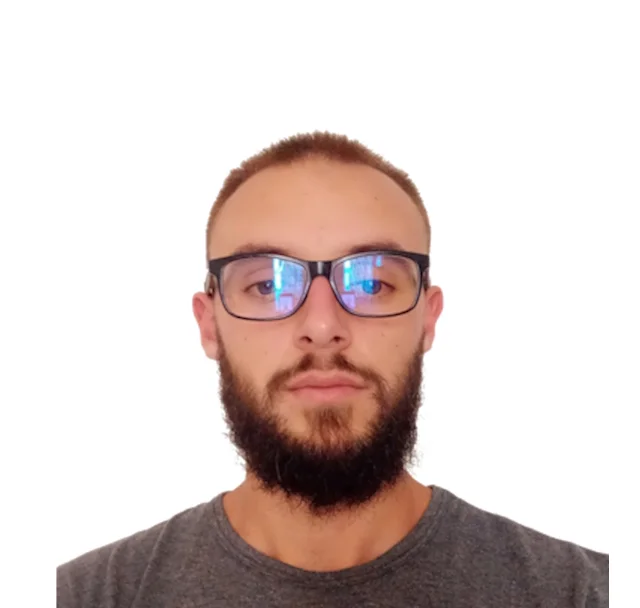
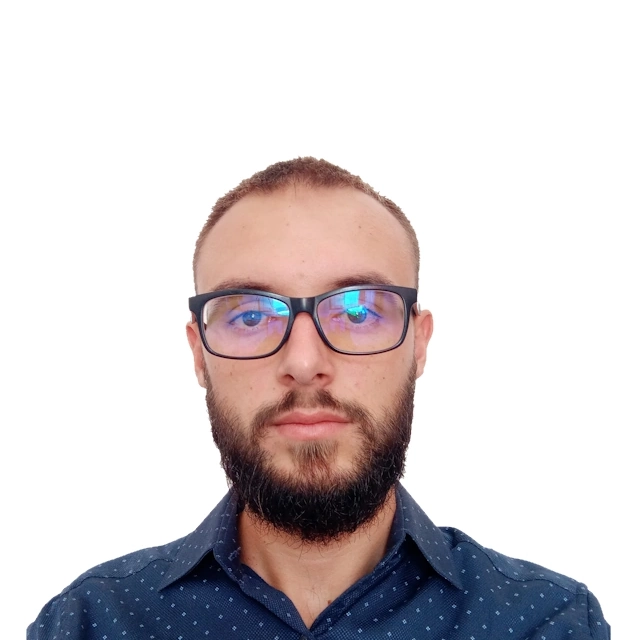
Elhamdulilah mbaroi i gjith projekti mbeti vetëm për build

Changed region(s): [[0.0312, 0.2188, 0.9688, 1.0]]

diff --git a/src/layout/AboutMe.jsx b/src/layout/AboutMe.jsx
@@ -1,5 +1,6 @@
 import { motion } from "framer-motion";
 import { vrPhHeroText, vrAboutCard } from "../framerMotion/variants";
+import FooterImg from "../assets/profile/aboutImg.webp";
 
 const AboutMe = () => {
   const vrTextHead = vrPhHeroText();
@@ -23,15 +24,25 @@ const AboutMe = () => {
           className="about-us__card__left-cont"
           aria-label="About us card image and btn container"
         >
-          {/* <img src="" alt="Profile image" /> */}
-          <div className="about-us__card__left-cont__img-perkohshem"></div>
+          <div
+            aria-label="About us Img Container"
+            className="about-us__card__left-cont__img-container"
+          >
+            <img src={FooterImg} alt="Profile image" />
+          </div>
           <button>
             <a href="mailto:floriandollani15@gmail.com">Contact</a>
           </button>
         </motion.div>
         <motion.p variants={vrTextHead}>
           Hello! I’m a _front end web developer_ ,But also i can do full stack
-          website/webApp using Firebase for backend.I’m a <span>certified</span>{" "}
+          website/webApp using Firebase for backend.I’m a{" "}
+          <a
+            href="https://drive.google.com/file/d/1-51H19ETtsdrmmoQhI5l-DeUIjBGB1ww/view?usp=drive_link"
+            target="_blank"
+          >
+            certified
+          </a>{" "}
           web developer with 1 year of hard work trying to master web
           development.
           <br />

diff --git a/src/layout/MySkills.jsx b/src/layout/MySkills.jsx
@@ -33,9 +33,9 @@ const MySkills = () => {
         className="my-skills__skills-cont --core-tech"
         aria-label="Core tech skill's icon's container"
       >
-        <motion.h3 variants={vrMySkillsLabel} initial="init" whileInView="anim">
+        <motion.h2 variants={vrMySkillsLabel} initial="init" whileInView="anim">
           Core Tech
-        </motion.h3>
+        </motion.h2>
         {[
           { src: HtmlIcn, alt: "Html" },
           { src: CssIcn, alt: "Css" },
@@ -67,9 +67,9 @@ const MySkills = () => {
         className="my-skills__skills-cont --library"
         aria-label="Library skill's icon's container"
       >
-        <motion.h3 variants={vrMySkillsLabel} initial="init" whileInView="anim">
+        <motion.h2 variants={vrMySkillsLabel} initial="init" whileInView="anim">
           Library
-        </motion.h3>
+        </motion.h2>
         {[
           { src: FirebaseIcn, alt: "Firebase" },
           { src: ReactIcn, alt: "React" },
@@ -100,9 +100,9 @@ const MySkills = () => {
         className="my-skills__skills-cont --others"
         aria-label="Other skill's icon's container"
       >
-        <motion.h3 variants={vrMySkillsLabel} initial="init" whileInView="anim">
+        <motion.h2 variants={vrMySkillsLabel} initial="init" whileInView="anim">
           Other's
-        </motion.h3>
+        </motion.h2>
         {[
           { src: SassIcn, alt: "Sass" },
           { src: TsIcn, alt: "Typescript" },

diff --git a/src/components/sections/servicesSec/Cards.jsx b/src/components/sections/servicesSec/Cards.jsx
@@ -27,7 +27,7 @@ const Cards = () => {
           className="services__cardCont__card__right"
           aria-label="Card text and btn group"
         >
-          <h3>Front End Web Development</h3>
+          <h2>Front End Web Development</h2>
           <p>
             Transform design into a real website.Also if you don’t have a pre
             made design we can made it.
@@ -52,7 +52,7 @@ const Cards = () => {
           className="services__cardCont__card__right"
           aria-label="Card text and btn group"
         >
-          <h3>Full Stack Web Development</h3>
+          <h2>Full Stack Web Development</h2>
           <p>
             Do you want a powerful website?This service has both front-end and
             back-end with Firebase.
@@ -77,7 +77,7 @@ const Cards = () => {
           className="services__cardCont__card__right"
           aria-label="Card text and btn group"
         >
-          <h3>Web Udate or Error Fixing Service</h3>
+          <h2>Web Udate or Error Fixing Service</h2>
           <p>
             Do you want a new update on your web?
             {windowWidth < 1200

diff --git a/src/styles/screens/sm/_aboutMe.scss b/src/styles/screens/sm/_aboutMe.scss
@@ -26,7 +26,7 @@
       width: 85%;
       @include mix.flex(column, flex-start, center);
       // ky posht InshaaAllah eshte sa per divin e perkohshem sa te bej foton
-      .about-us__card__left-cont__img-perkohshem {
+      .about-us__card__left-cont__img-container {
         width: 70%;
         aspect-ratio: 1;
         font-size: var.$size5-max599;
@@ -34,6 +34,11 @@
         border: 0.5em solid var.$col4;
         border-radius: 50%;
         margin-top: 2.5em;
+        overflow: hidden;
+        @include mix.flex(row, center, flex-start);
+        img {
+          width: 100%;
+        }
       }
       button {
         @include btn.buttonMob(
@@ -51,7 +56,7 @@
     p {
       @include mix.font(var.$martel, var.$size3-max599, white, 600, 2em 2em, 0);
       padding-bottom: 3.5em;
-      span {
+      a {
         color: var.$colCopyrightBanner;
         font-weight: 600;
         text-decoration: underline;

diff --git a/src/layout/Home.jsx b/src/layout/Home.jsx
@@ -1,7 +1,7 @@
 import { HiArrowNarrowDown as ArrIcn } from "react-icons/hi";
 import { motion } from "framer-motion";
 import { vrPhHeroText, vrPhHeroImg } from "../framerMotion/variants";
-import ProfilePlaceholdr from "../assets/profile/placeholder.webp";
+import ProfileImage from "../assets/profile/mainImg.webp";
 
 const Home = () => {
   const h1variant = vrPhHeroText();
@@ -34,12 +34,12 @@ const Home = () => {
         variants={vrPhHeroImg}
         initial="init"
         whileInView="anim"
-        src={ProfilePlaceholdr}
+        src={ProfileImage}
         alt="Photo of the person"
       />
-      <h3>
+      <h2>
         Scroll Down <ArrIcn />
-      </h3>
+      </h2>
     </section>
   );
 };

diff --git a/src/assets/index.js b/src/assets/index.js
@@ -23,10 +23,3 @@ export { default as FirebaseIcn } from "./icons/firebase.webp";
 export { default as GitHubIcn } from "./icons/github.webp";
 export { default as FigmaIcn } from "./icons/figma.webp";
 export { default as MuiIcn } from "./icons/material-ui.webp";
-
-//Min Imgs for blur bckg InshaaAllah
-export { default as ImgKsPCMin } from "./images/3proj/kHpcMin.webp";
-export { default as ImgDbPcMin } from "./images/3proj/dbPcMin.webp";
-export { default as ImgFcPcMin } from "./images/3proj/fncPcMin.webp";
-export { default as ImgDashboardPhMin } from "./images/dbPhMin.webp";
-export { default as ImgFinancdPhMin } from "./images/fcPhMin.webp";

diff --git a/src/navBar/OptPc.jsx b/src/navBar/OptPc.jsx
@@ -31,7 +31,14 @@ const OptPc = () => {
         </li>
       </ul>
       <div aria-label="CTA buton's group">
-        <motion.button whileTap={{ scale: 0.9 }}>Get My Cv</motion.button>
+        <motion.button whileTap={{ scale: 0.9 }}>
+          <a
+            href="https://drive.google.com/file/d/1v8kxxtGBVSyGamQTH7zryuqGL5O9F4GN/view?usp=drive_link"
+            target="_blank"
+          >
+            Get My Cv
+          </a>
+        </motion.button>
         <motion.button whileTap={{ scale: 0.9 }}>
           {" "}
           <a href="mailto:floriandollani15@gmail.com">Hire Me</a>

diff --git a/src/navBar/OptPh.jsx b/src/navBar/OptPh.jsx
@@ -79,7 +79,12 @@ const OptPh = () => {
               {el.txt === "Hire Me" ? (
                 <a href="mailto:floriandollani15@gmail.com">Hire Me</a>
               ) : (
-                el.txt
+                <a
+                  href="https://drive.google.com/file/d/1v8kxxtGBVSyGamQTH7zryuqGL5O9F4GN/view?usp=drive_link"
+                  target="_blank"
+                >
+                  Get My Cv
+                </a>
               )}
             </motion.button>
           ))}

diff --git a/src/components/sections/projects/Cards.jsx b/src/components/sections/projects/Cards.jsx
@@ -41,9 +41,9 @@ const Cards = ({
         className="projects__container__txt-and-btn-info-cont"
         aria-label="Group for text info and button's"
       >
-        <motion.h3 variants={vrTextHead} initial="init" whileInView="anim">
+        <motion.h2 variants={vrTextHead} initial="init" whileInView="anim">
           {title}
-        </motion.h3>
+        </motion.h2>
         <motion.p variants={vrTextHead} initial="init" whileInView="anim">
           {desc}
         </motion.p>

diff --git a/src/styles/screens/md/_aboutMe.scss b/src/styles/screens/md/_aboutMe.scss
@@ -12,7 +12,7 @@
       font-size: var.$sizeP-max899;
       .about-us__card__left-cont {
         // ky posht InshaaAllah eshte sa per divin e perkohshem sa te bej foton
-        .about-us__card__left-cont__img-perkohshem {
+        .about-us__card__left-cont__img-container {
           font-size: var.$size5-max899;
         }
         button {

diff --git a/src/styles/screens/mdL/_aboutMe.scss b/src/styles/screens/mdL/_aboutMe.scss
@@ -26,7 +26,7 @@
         width: 30%;
         border-bottom: none;
         border-right: 0.05em solid var.$col1;
-        .about-us__card__left-cont__img-perkohshem {
+        .about-us__card__left-cont__img-container {
           font-size: var.$sizeP-max1199;
           border-width: 0.42em;
         }

diff --git a/src/styles/screens/lg/_aboutMe.scss b/src/styles/screens/lg/_aboutMe.scss
@@ -22,7 +22,7 @@
       }
       .about-us__card__left-cont {
         border-right: 0.04em solid var.$col1;
-        .about-us__card__left-cont__img-perkohshem {
+        .about-us__card__left-cont__img-container {
           font-size: var.$sizeP-max1799;
           border-width: 0.34em;
         }
